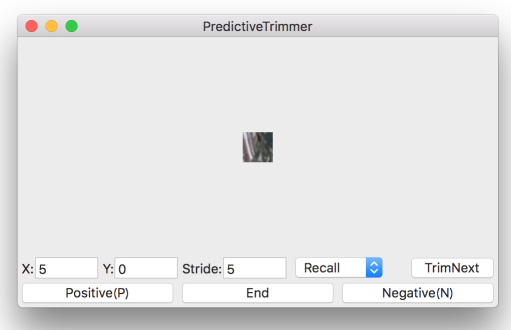
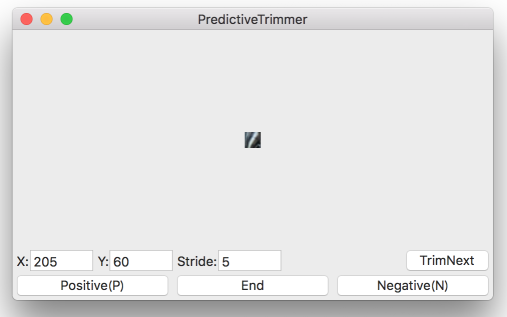
Remove measure, change readme

Changed region(s): [[0.0, 0.142, 0.9763, 0.9653], [0.0, 0.0, 0.9763, 0.1136], [0.4734, 0.3975, 0.5325, 0.511]]

diff --git a/ImageTrimmer/ViewControllers/PredictiveTrimViewController.swift b/ImageTrimmer/ViewControllers/PredictiveTrimViewController.swift
@@ -14,7 +14,6 @@ class PredictiveTrimViewController : TrimViewController {
     @IBOutlet weak var xField: NSTextField!
     @IBOutlet weak var yField: NSTextField!
     @IBOutlet weak var strideField: NSTextField!
-    @IBOutlet weak var measureField: NSPopUpButton!
     
     // Model
     private var mu: [Double]!
@@ -97,17 +96,6 @@ class PredictiveTrimViewController : TrimViewController {
                    positiveFileNumber: positiveFileNumber,
                    negativeFileNumber: negativeFileNumber)
         
-        weak var welf = self
-        
-        measureField.rx.controlEvent.startWith(())
-            .map { welf!.measureField.selectedItem!.title }
-            .subscribe(onNext: {
-                Swift.print($0)
-                welf!.createModel(positiveDirectory: positiveSupervisorDirectory,
-                                  negativeDirectory: negativeSupervisorDirectory,
-                                  measure: $0)
-            })
-            .addDisposableTo(disposeBag)
         
         x.asObservable()
             .map(intToStr)
@@ -129,11 +117,14 @@ class PredictiveTrimViewController : TrimViewController {
             .bindTo(y)
             .addDisposableTo(disposeBag)
         
+        createModel(positiveDirectory: positiveSupervisorDirectory,
+                    negativeDirectory: negativeSupervisorDirectory)
+        
     }
     
     private var model: UnsafeMutablePointer<svm_model>!
     
-    private func createModel(positiveDirectory: String, negativeDirectory: String, measure: String) {
+    private func createModel(positiveDirectory: String, negativeDirectory: String) {
         blockView.show(with: "Creating model.")
         DispatchQueue.global().async {
             

diff --git a/readme.md b/readme.md
@@ -20,7 +20,7 @@ Currently, it's specialized for binary classification.
 1. [Common](#common)
 1. Set x and y(Input value, or just click image).
 1. Trimming preview will be shown on the right box.
-1. Press "Crop(P)" or "Crop(N)" button to trim and save positive/negative image.
+1. Press "Trim(P)" or "Trim(N)" button to trim and save positive/negative image.
 
 Can zoom, scroll.
 
@@ -41,11 +41,10 @@ This feature may not work well...
 1. Press "Pred" button.
 1. Select directory which contains "Positive" samples(size of images and the values you set mus be same).
 1. Select "Negative" directory likewise.
-1. New window will open. Set "stride" and click "CropNext" button.
+1. New window will open. Set "stride" and click "TrimNext" button.
 1. Positive-like image will be shown, Press "Positive"/"Negative" button to save image.
 
 - Search proceeds by "stride" pixels in Row-major order.
-- Can choose "Precision" or "F1 score" for cross varidation, but, for collecting positive samples, "Recall" may work better than them.
 
 ## License
 [MIT License](./LICENSE)
